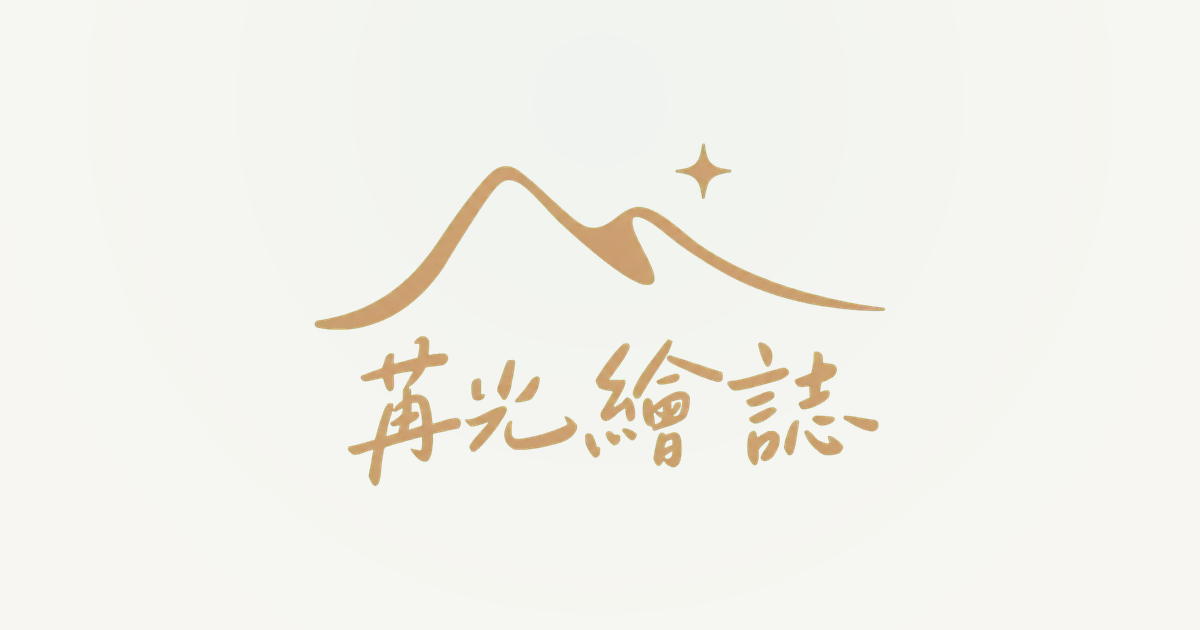
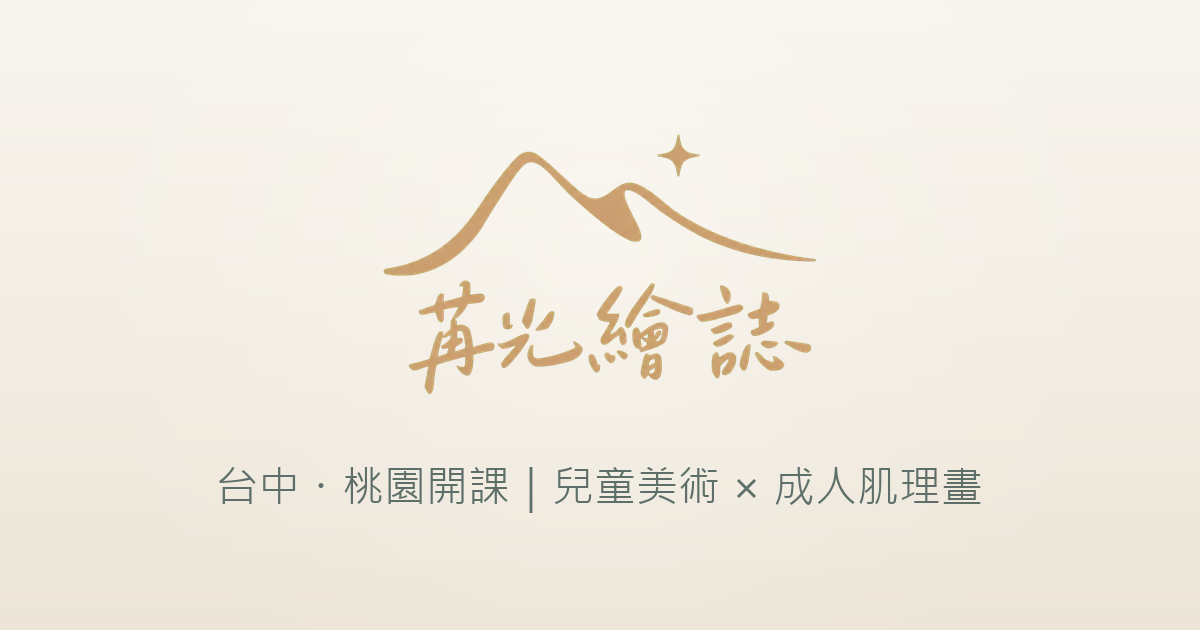
feat: put the studio's offer on the share card
The card carried only the wordmark, so a link in a feed said who but not
what — and the image occupies about ten times the area of the two lines of
text beneath it.

Add the tagline under a smaller logo, and warm the background into a
gradient: at #f7f6f2 the card dissolved into the pale grey Facebook and LINE
draw behind link previews, leaving it with no edge.

Drawing CJK needs a real font file, so the script now looks for one and
fails with an explanation rather than silently rendering blanks.

diff --git a/scripts/build-share-card.py b/scripts/build-share-card.py
@@ -1,16 +1,18 @@
-"""Compose the 1200x630 link-preview card from the studio logo.
+"""Compose the 1200x630 link-preview card from the studio logo and a tagline.
 
-Run after changing the logo:
+Run after changing the logo or the tagline:
 
     uv run --with pillow python scripts/build-share-card.py
 
-Kept as a script rather than a build step: the logo changes about never, and
-a checked-in PNG means the deploy has one less thing that can fail.
+Kept as a script rather than a build step: the inputs change about never, and
+a checked-in PNG means the deploy has one less thing that can fail. It does
+need a CJK font on the machine that runs it — see FONT_CANDIDATES.
 """
 
+import sys
 from pathlib import Path
 
-from PIL import Image, ImageDraw
+from PIL import Image, ImageDraw, ImageFont
 
 ROOT = Path(__file__).resolve().parents[1]
 LOGO = ROOT / "frontend" / "public" / "assets" / "luma-studio-logo.png"
@@ -18,45 +20,92 @@ OUTPUT = ROOT / "frontend" / "public" / "assets" / "share-card.png"
 
 # The 1.91:1 ratio Facebook, LINE and X all crop toward.
 WIDTH, HEIGHT = 1200, 630
-BACKGROUND = (247, 246, 242)
-TINT = (234, 241, 236)
-LOGO_WIDTH = 620
+
+# A warm card rather than the site's near-white: Facebook and LINE both put
+# link cards on a pale grey, and #f7f6f2 disappeared into it.
+TOP_TONE = (248, 245, 239)
+BOTTOM_TONE = (236, 229, 216)
+HIGHLIGHT = (255, 253, 248)
+TEXT_TONE = (94, 111, 106)
+
+TAGLINE = "台中・桃園開課｜兒童美術 × 成人肌理畫"
+TAGLINE_SIZE = 42
+LOGO_WIDTH = 470
+GAP = 54
+
+# Pillow needs a real font file for CJK; the stack default draws blanks.
+FONT_CANDIDATES = [
+    ("C:/Windows/Fonts/msjh.ttc", 0),
+    ("C:/Windows/Fonts/msjhbd.ttc", 0),
+    ("/System/Library/Fonts/PingFang.ttc", 0),
+    ("/usr/share/fonts/opentype/noto/NotoSansCJK-Regular.ttc", 0),
+    ("/usr/share/fonts/truetype/noto/NotoSansCJK-Regular.ttc", 0),
+]
 
 
-def radial_tint(size: tuple[int, int]) -> Image.Image:
-    """The same soft wash the site's pages use behind their content."""
+def load_font(size: int) -> ImageFont.FreeTypeFont:
+    for path, index in FONT_CANDIDATES:
+        if Path(path).exists():
+            return ImageFont.truetype(path, size, index=index)
+    raise SystemExit(
+        "No CJK font found. Add one to FONT_CANDIDATES in this script, or run it\n"
+        "on a machine with 微軟正黑體 / PingFang / Noto Sans CJK installed."
+    )
 
-    width, height = size
-    gradient = Image.new("L", (width, height), 0)
-    draw = ImageDraw.Draw(gradient)
-    steps = 90
+
+def background() -> Image.Image:
+    """A soft vertical wash with a highlight behind the logo."""
+
+    card = Image.new("RGB", (WIDTH, HEIGHT))
+    draw = ImageDraw.Draw(card)
+    for y in range(HEIGHT):
+        ratio = y / (HEIGHT - 1)
+        draw.line(
+            [(0, y), (WIDTH, y)],
+            fill=tuple(round(TOP_TONE[i] + (BOTTOM_TONE[i] - TOP_TONE[i]) * ratio) for i in range(3)),
+        )
+
+    glow = Image.new("L", (WIDTH, HEIGHT), 0)
+    glow_draw = ImageDraw.Draw(glow)
+    steps = 110
     for step in range(steps, 0, -1):
-        radius = width * 0.62 * (step / steps)
-        alpha = int(150 * (1 - step / steps) ** 1.6)
-        draw.ellipse(
-            [
-                width / 2 - radius,
-                height * 0.16 - radius,
-                width / 2 + radius,
-                height * 0.16 + radius,
-            ],
+        radius = WIDTH * 0.5 * (step / steps)
+        alpha = int(120 * (1 - step / steps) ** 1.7)
+        glow_draw.ellipse(
+            [WIDTH / 2 - radius, HEIGHT * 0.38 - radius, WIDTH / 2 + radius, HEIGHT * 0.38 + radius],
             fill=alpha,
         )
-    return gradient
+    card.paste(Image.new("RGB", (WIDTH, HEIGHT), HIGHLIGHT), (0, 0), glow)
+    return card
 
 
 def build() -> None:
-    card = Image.new("RGB", (WIDTH, HEIGHT), BACKGROUND)
-    card.paste(Image.new("RGB", (WIDTH, HEIGHT), TINT), (0, 0), radial_tint((WIDTH, HEIGHT)))
+    card = background()
+    draw = ImageDraw.Draw(card)
+    font = load_font(TAGLINE_SIZE)
 
     logo = Image.open(LOGO).convert("RGBA")
-    height = round(logo.height * (LOGO_WIDTH / logo.width))
-    logo = logo.resize((LOGO_WIDTH, height), Image.LANCZOS)
-    card.paste(logo, ((WIDTH - LOGO_WIDTH) // 2, (HEIGHT - height) // 2), logo)
+    logo_height = round(logo.height * (LOGO_WIDTH / logo.width))
+    logo = logo.resize((LOGO_WIDTH, logo_height), Image.LANCZOS)
+
+    left, top, right, bottom = draw.textbbox((0, 0), TAGLINE, font=font)
+    text_width, text_height = right - left, bottom - top
+
+    # Centre the logo and tagline as one block, not each on its own.
+    block_height = logo_height + GAP + text_height
+    block_top = (HEIGHT - block_height) // 2
+
+    card.paste(logo, ((WIDTH - LOGO_WIDTH) // 2, block_top), logo)
+    draw.text(
+        ((WIDTH - text_width) // 2 - left, block_top + logo_height + GAP - top),
+        TAGLINE,
+        font=font,
+        fill=TEXT_TONE,
+    )
 
     OUTPUT.parent.mkdir(parents=True, exist_ok=True)
     card.save(OUTPUT, "PNG", optimize=True)
-    print(f"wrote {OUTPUT.relative_to(ROOT)} ({OUTPUT.stat().st_size // 1024} KB)")
+    print(f"wrote {OUTPUT.relative_to(ROOT)} ({OUTPUT.stat().st_size // 1024} KB)", file=sys.stderr)
 
 
 if __name__ == "__main__":
